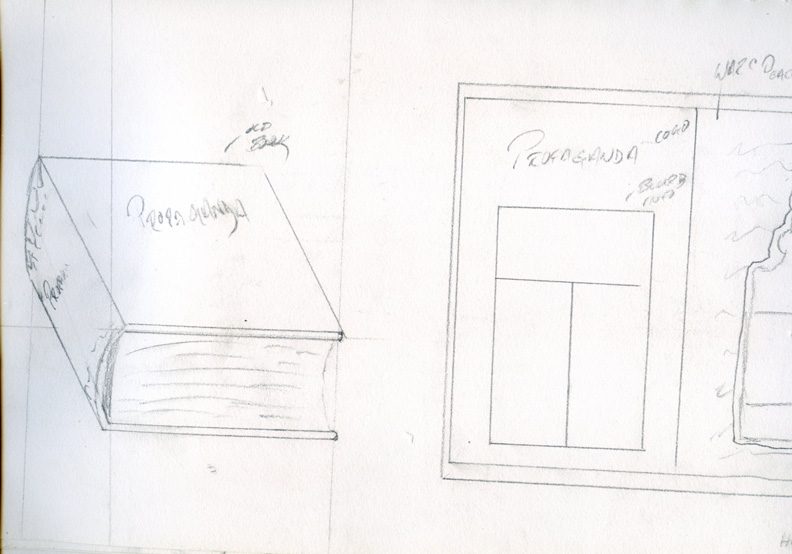
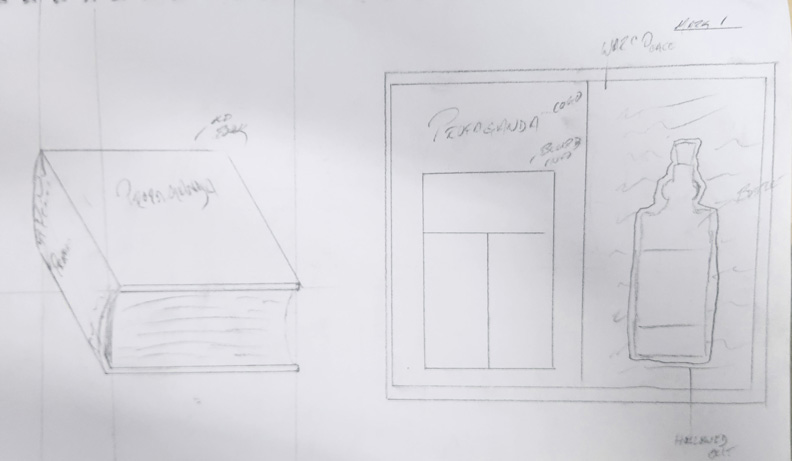
added propaganda

diff --git a/alcohol.html b/alcohol.html
@@ -46,23 +46,40 @@
         </section>
 
         <section>
+
             <div class="container">
+
                 <div class="magazine row">
+                    <div class="one fourth">
+                        <img src="images/propaganda_1.jpg" alt="placeholder">
+                        <img src="images/propaganda_2.jpg" alt="placeholder">
+                    </div>
+                    <div class="one-fourth">
+                        <img src="images/propaganda_3.jpg" alt="placeholder">
+                        <img src="images/propaganda_4.jpg" alt="placeholder">
+                    </div>
+                    <div class="one-half">
+                        <h3>Ideation &amp; Sketches</h3>
+                        <p>I began this project by sketching various ideas for both the bottle and packaging for the
+                            "Propaganda" intellectual property. My inital idea was to base it on Soviet-era propaganda
+                            posters combined with a fiery aesthetic that hearkens back to the industrial revolution
+                            within the Soviet Union. </p>
+                    </div>
+                </div>
+
+                <div class="magazine row big-space-above swapped">
                     <div class="two-thirds">
-                        <img src="images/front_propaganda.jpg" alt="placeholder" width="10000" height="10000">
+                        <img src="images/color_theory_propaganda.jpg" alt="placeholder" width="10000" height="10000">
                     </div>
                     <div class="one-third">
-                        <h3></h3>
-                        <p>Lorem ipsum dolor sit amet consectetur adipisicing elit. Illum, fugiat! Incidunt modi ipsum
-                            quo
-                            enim dolorem cumque odio quibusdam, ducimus nihil voluptatem suscipit quos illo expedita
-                            quis
-                            earum esse veniam.</p>
-                        <h3>Thought Process</h3>
-                        <p>Lorem ipsum dolor sit amet consectetur adipisicing elit. Velit temporibus porro
-                            exercitationem maiores voluptatibus excepturi ullam fuga ducimus a laboriosam ad, impedit
-                            iusto praesentium consequuntur vero enim ratione non ipsum officiis asperiores voluptates id
-                            vel labore in? Exercitationem, consequuntur in.</p>
+
+
+                        <h3>Colour Theory</h3>
+                        <p>After conceptualising the idea and sketching it out, I began painting the fire using oil
+                            paints, as well as painting the workers in various states of labour. This was perhaps the
+                            most frustrating aspect of the design, as I had not seriously painted in many years, and was
+                            at best out of practise. I decided to use the colours of fire as popularly imagined, and
+                            used swatches to match the paint.</p>
                     </div>
                 </div>
 

diff --git a/scroll.js b/scroll.js
@@ -1,0 +1,83 @@
+//modified from (added offset to) orignal anchor-scroll by Benjamin De Cock (https://github.com/bendc)
+//https://github.com/bendc/anchor-scroll
+
+document.addEventListener("DOMContentLoaded", () => {
+    "use strict";
+
+    const root = (() => {
+        if ("scrollingElement" in document) return document.scrollingElement;
+        const html = document.documentElement;
+        const start = html.scrollTop;
+        html.scrollTop = start + 1;
+        const end = html.scrollTop;
+        html.scrollTop = start;
+        return end > start ? html : document.body;
+    })();
+
+    const ease = (duration, elapsed, start, end) =>
+        Math.round(end * (-Math.pow(2, -10 * elapsed / duration) + 1) + start);
+
+    const getCoordinates = hash => {
+        const start = root.scrollTop;
+
+        //add offset
+        function haveClass(elem, className) {
+            return new RegExp(" " + className + " ").test(" " + elem.className + " ");
+        }
+        const siteheader = document.querySelector(".site-header");
+        const siteheaderfixed = haveClass(siteheader, "sticky");
+        var offset;
+        if (siteheaderfixed) {
+            offset = document.querySelector(".site-id").offsetHeight + 15;
+        } else {
+            offset = 0;
+        }
+
+        const delta = (() => {
+            if (hash.length < 2) return -start;
+            const target = document.querySelector(hash);
+            if (!target) return;
+            const top = target.getBoundingClientRect().top;
+            const max = root.scrollHeight - window.innerHeight;
+            return (start + top < max ? top : max - start) - offset;
+        })();
+        if (delta) return new Map([["start", start], ["delta", delta]]);
+    };
+
+    const scroll = link => {
+        const hash = link.getAttribute("href");
+        const coordinates = getCoordinates(hash);
+        if (!coordinates) return;
+
+        const tick = timestamp => {
+            progress.set("elapsed", timestamp - start);
+            root.scrollTop = ease(...progress.values(), ...coordinates.values());
+            progress.get("elapsed") < progress.get("duration")
+                ? requestAnimationFrame(tick)
+                : complete(hash, coordinates);
+        };
+
+        const progress = new Map([["duration", 800]]);
+        const start = performance.now();
+        requestAnimationFrame(tick);
+    };
+
+    const complete = (hash, coordinates) => {
+        history.pushState(null, null, hash);
+        root.scrollTop = coordinates.get("start") + coordinates.get("delta");
+    };
+
+    const attachHandler = (links, index) => {
+        const link = links.item(index);
+        link.addEventListener("click", event => {
+            event.preventDefault();
+            scroll(link);
+        });
+        if (index) return attachHandler(links, index - 1);
+    };
+
+    const links = document.querySelectorAll("a.scroll");
+    const last = links.length - 1;
+    if (last < 0) return;
+    attachHandler(links, last);
+});

diff --git a/script.js b/script.js
@@ -13,3 +13,4 @@ const myobserver = new IntersectionObserver((entries) => {
 document.querySelectorAll(".animate-me-on-scroll").forEach((section) => {
     myobserver.observe(section);
 });
+
